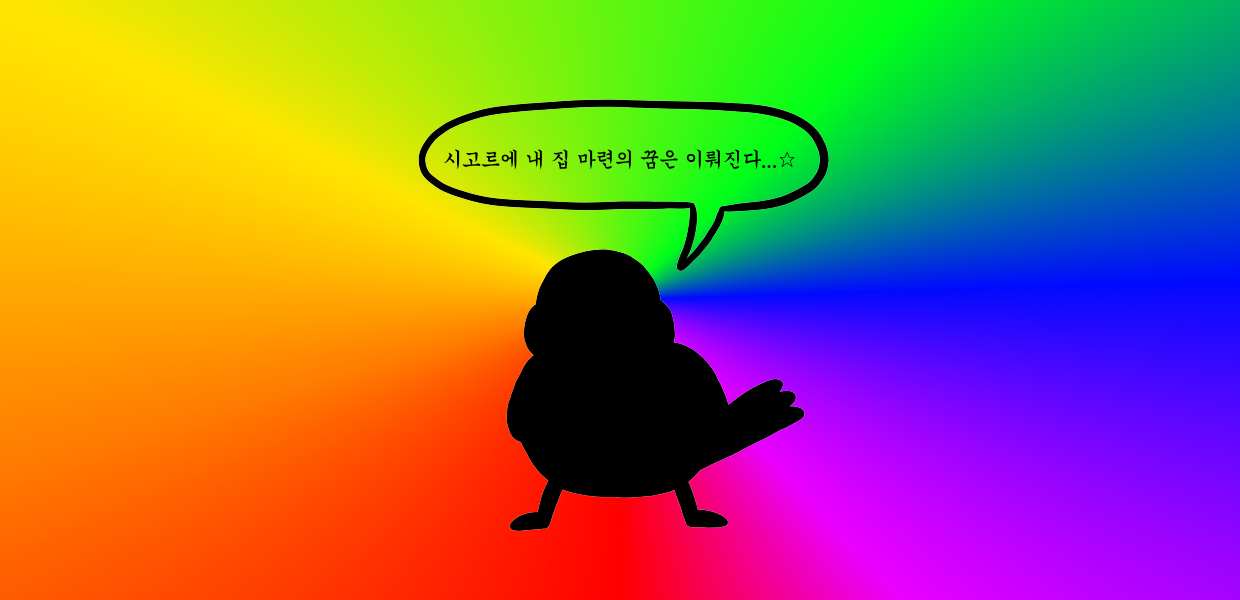
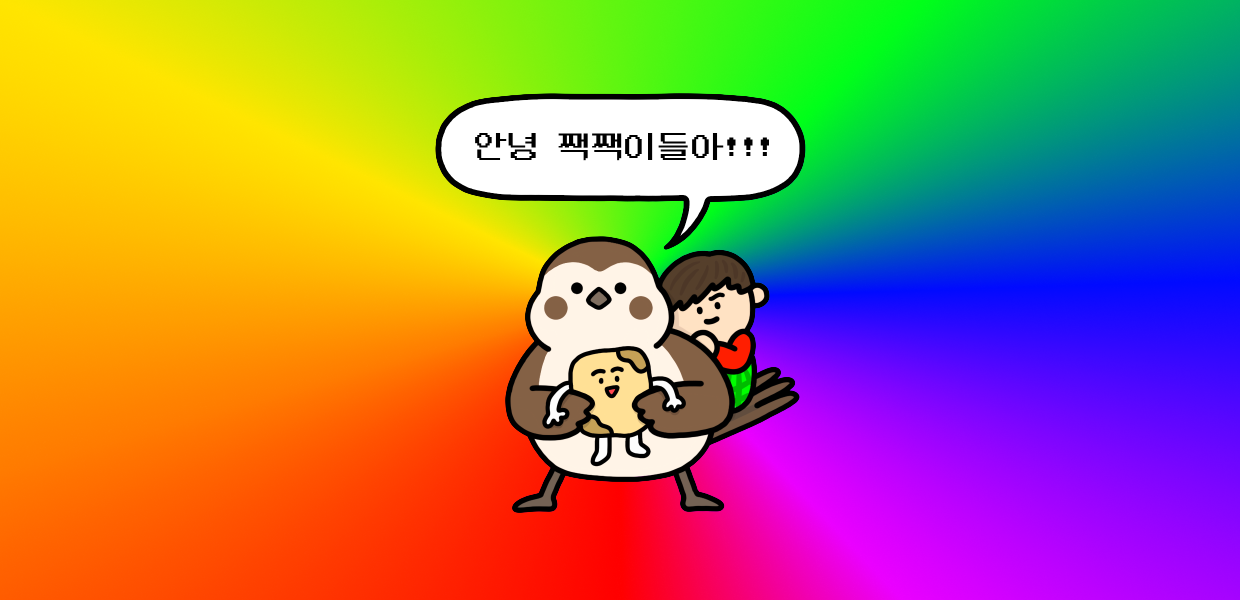
feat: 랜덤 nft

Changed region(s): [[0.3371, 0.15, 0.6742, 0.9]]

diff --git a/docs/bundle.js b/docs/bundle.js
@@ -206,7 +206,7 @@ eval("\nvar __importDefault = (this && this.__importDefault) || function (mod) {
   \**************************/
 /***/ ((__unused_webpack_module, exports, __webpack_require__) => {
 
-eval("\nObject.defineProperty(exports, \"__esModule\", ({ value: true }));\nconst skynode_1 = __webpack_require__(/*! @hanul/skynode */ \"./node_modules/@hanul/skynode/lib/index.js\");\nclass Home {\n    constructor() {\n        this.container = (0, skynode_1.el)(\".home-view\", (0, skynode_1.el)(\"h1\", \"떡방앗간 참새 NFT 민팅\"), (0, skynode_1.el)(\"h2\", \"참새들의 내집 마련의 꿈은 이뤄진다...☆\"), (0, skynode_1.el)(\".comment-container\", (0, skynode_1.el)(\"img\", { src: \"./images/sparrow.png\" }), this.commentInput = (0, skynode_1.el)(\"input.comment\", { placeholder: \"원하는 문구를 입력해줘\" })), (0, skynode_1.el)(\"button\", \"민팅\", {}), (0, skynode_1.el)(\".footer\", (0, skynode_1.el)(\".sns\", (0, skynode_1.el)(\"a\", { href: \"https://twitter.com/tteokmill\", target: \"_blank\" }, (0, skynode_1.el)(\"img\", { src: \"/images/icon/twitter.svg\", height: \"42px\" })), (0, skynode_1.el)(\"a\", { href: \"https://discord.gg/YgdruRMFtJ\", target: \"_blank\" }, (0, skynode_1.el)(\"img\", { src: \"/images/icon/discord.svg\", height: \"42px\" })), (0, skynode_1.el)(\"a\", { href: \"https://open.kakao.com/o/g1nYzIHd\", target: \"_blank\" }, (0, skynode_1.el)(\"img\", { src: \"/images/icon/kakaotalk.svg\", height: \"42px\" }))), (0, skynode_1.el)(\"ul\", (0, skynode_1.el)(\"li\", (0, skynode_1.el)(\"a\", \"떡방앗간.닷컴\", { href: \"https://tteok.org\" })), (0, skynode_1.el)(\"li\", (0, skynode_1.el)(\"a\", \"느프트 설명\", { href: \"http://whitelist.tteok.org/explanation\" }))))).appendTo(skynode_1.BodyNode);\n    }\n    changeParams(params, uri) { }\n    close() {\n        clearInterval(this.interval);\n        this.container.delete();\n    }\n}\nexports[\"default\"] = Home;\n\n\n//# sourceURL=webpack:///./src/view/Home.ts?");
+eval("\nObject.defineProperty(exports, \"__esModule\", ({ value: true }));\nconst skynode_1 = __webpack_require__(/*! @hanul/skynode */ \"./node_modules/@hanul/skynode/lib/index.js\");\nclass Home {\n    constructor() {\n        this.container = (0, skynode_1.el)(\".home-view\", (0, skynode_1.el)(\"h1\", \"떡방앗간 참새 NFT 민팅\"), (0, skynode_1.el)(\"h2\", \"참새들의 내집 마련의 꿈은 이뤄진다...☆\"), (0, skynode_1.el)(\".comment-container\", (0, skynode_1.el)(\"img\", { src: `./images/nft${Math.floor(Math.random() * 6)}.png` }), this.commentInput = (0, skynode_1.el)(\"input.comment\", { placeholder: \"원하는 문구를 입력해줘\" })), (0, skynode_1.el)(\"button\", \"민팅 허기\", {}), (0, skynode_1.el)(\".footer\", (0, skynode_1.el)(\".sns\", (0, skynode_1.el)(\"a\", { href: \"https://twitter.com/tteokmill\", target: \"_blank\" }, (0, skynode_1.el)(\"img\", { src: \"/images/icon/twitter.svg\", height: \"42px\" })), (0, skynode_1.el)(\"a\", { href: \"https://discord.gg/YgdruRMFtJ\", target: \"_blank\" }, (0, skynode_1.el)(\"img\", { src: \"/images/icon/discord.svg\", height: \"42px\" })), (0, skynode_1.el)(\"a\", { href: \"https://open.kakao.com/o/g1nYzIHd\", target: \"_blank\" }, (0, skynode_1.el)(\"img\", { src: \"/images/icon/kakaotalk.svg\", height: \"42px\" }))), (0, skynode_1.el)(\"ul\", (0, skynode_1.el)(\"li\", (0, skynode_1.el)(\"a\", \"떡방앗간.닷컴\", { href: \"https://tteok.org\" })), (0, skynode_1.el)(\"li\", (0, skynode_1.el)(\"a\", \"느프트 설명\", { href: \"http://whitelist.tteok.org/explanation\" }))))).appendTo(skynode_1.BodyNode);\n    }\n    changeParams(params, uri) { }\n    close() {\n        clearInterval(this.interval);\n        this.container.delete();\n    }\n}\nexports[\"default\"] = Home;\n\n\n//# sourceURL=webpack:///./src/view/Home.ts?");
 
 /***/ })
 

diff --git a/src/view/Home.ts b/src/view/Home.ts
@@ -13,10 +13,10 @@ export default class Home implements View {
             el("h1", "떡방앗간 참새 NFT 민팅"),
             el("h2", "참새들의 내집 마련의 꿈은 이뤄진다...☆"),
             el(".comment-container",
-                el("img", { src: "./images/sparrow.png" }),
+                el("img", { src: `./images/nft${Math.floor(Math.random() * 6)}.png` }),
                 this.commentInput = el("input.comment", { placeholder: "원하는 문구를 입력해줘" }),
             ),
-            el("button", "민팅", {}),
+            el("button", "민팅 허기", {}),
             el(".footer", el(".sns",
                 el("a", { href: "https://twitter.com/tteokmill", target: "_blank" }, el("img", { src: "/images/icon/twitter.svg", height: "42px" })),
                 el("a", { href: "https://discord.gg/YgdruRMFtJ", target: "_blank" }, el("img", { src: "/images/icon/discord.svg", height: "42px" })),
